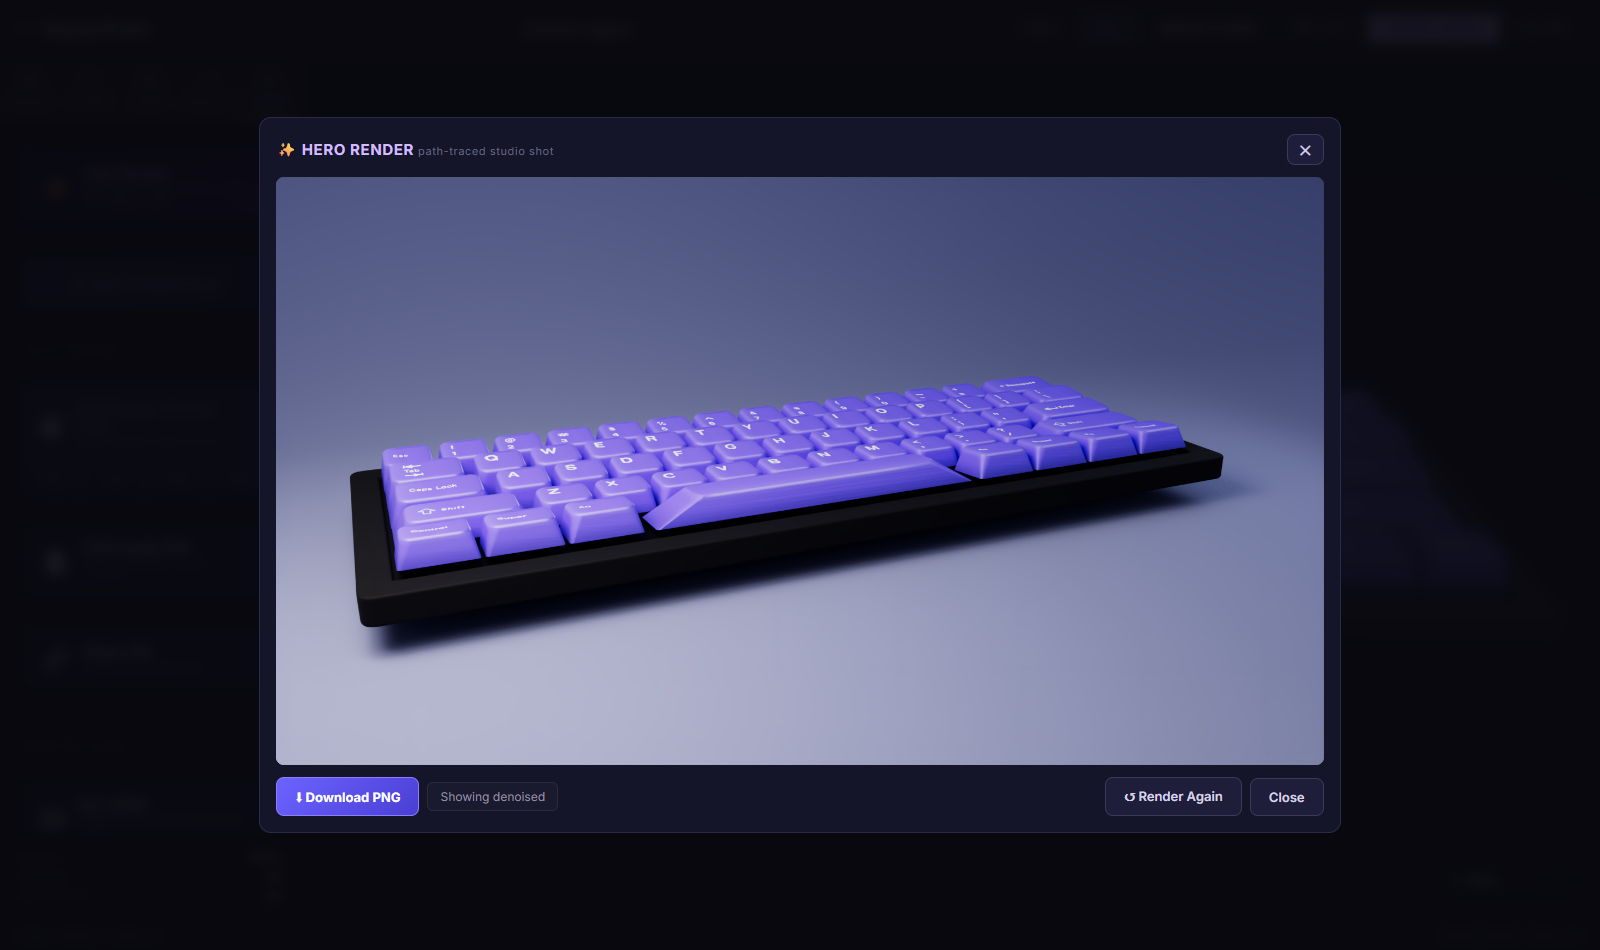
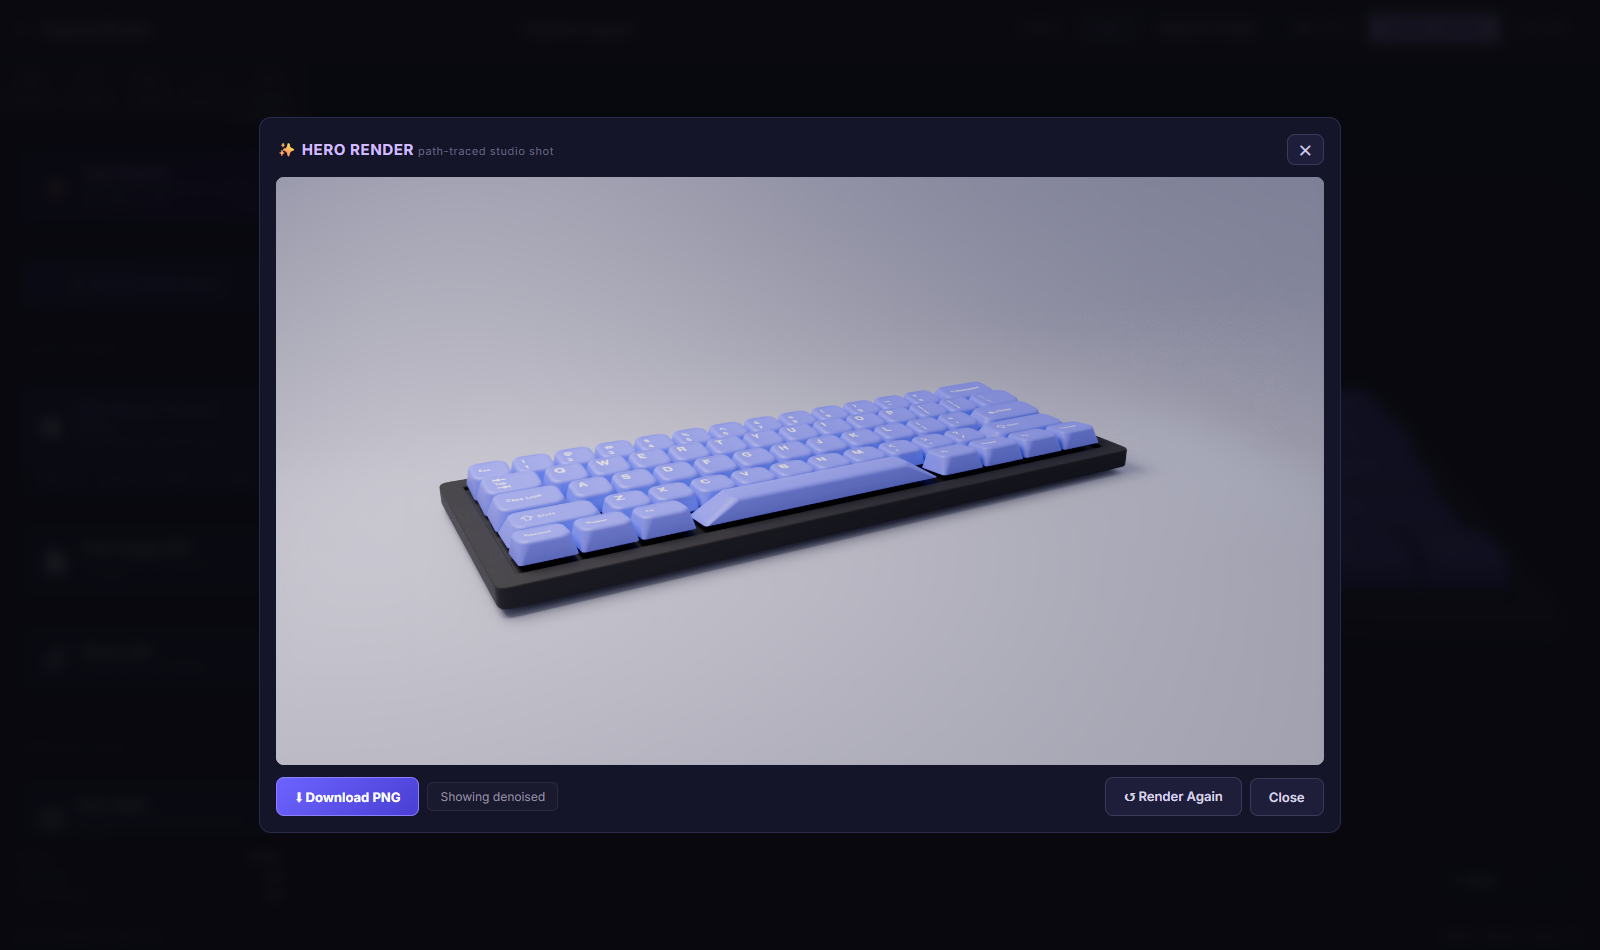
feat: hero render v2 - reference-grade caps, tonal backdrop, AgX
What-are-we-missing pass against the cream macropad reference:

- Cap corners: fillet 1.3->1.8mm, top corner r 2.4->3.2mm, base r
  1.2->1.6mm, more corner/fillet segments - caps read pillowy, not boxy
  (live viewport shares the geometry; lab closeup verified)
- Cap texture under the tracer: hero stage rebuilds top textures WITHOUT
  the painted 2.5D highlight strips (recipe stashed in map.userData by
  Keycap; buildKeycapTextureFallback gains a shaded flag) - real GI was
  double-exposing the baked decals. Side walls drop the painted ramp for
  flat color. PBT roughness 0.93->0.62 satin in hero clones only, so the
  softbox draws true gradients across each cap
- Tonal harmony: backdrop sampled from actual cap canvas colors ->
  desaturated same-hue sweep + gradient (cream caps -> warm greige,
  purple -> lavender grey)
- Grounded: float gap ~0.12, key light high-left-behind for a long soft
  forward shadow; fill 0.8
- Composition: hero fill 0.62 (negative space), aspect options 16:9 /
  1:1 / 4:5, resolution tiers HD/QHD/4K by long edge
- Tone: AgX + exposure 1.15 on the hero renderer (ACES clipped
  saturated colorways); lifted blacks match the reference grade

diff --git a/src/hero/heroStage.js b/src/hero/heroStage.js
@@ -1,5 +1,6 @@
 import * as THREE from 'three';
 import { GradientEquirectTexture, ShapedAreaLight, PhysicalCamera } from 'three-gpu-pathtracer';
+import { buildKeycapTextureFallback, getTopInset } from '../components/Keycap';
 
 // Builds the path-traceable hero scene from the live viewport scene.
 // Staging recipe (matches the reference render): floating board centered
@@ -15,14 +16,50 @@ import { GradientEquirectTexture, ShapedAreaLight, PhysicalCamera } from 'three-
 // tracer snapshots them into its own BVH/atlas on setScene, and texture
 // repeat transforms (molded-grain normal map) carry through per material.
 
-// el kept under the lens half-angle (16.5deg) for hero/front so the
-// backdrop wall fills the top of frame like the reference.
+// fill < 1 leaves negative space around the board — the reference shots
+// are calm product photos, not full-bleed crops.
 export const HERO_PRESETS = {
-  hero: { label: '¾ Hero', az: -0.42, el: 0.34, fill: 0.78, fStop: 4.5 },
-  front: { label: 'Front Low', az: 0, el: 0.2, fill: 0.8, fStop: 5 },
-  top: { label: 'Top Down', az: -0.12, el: 1.22, fill: 0.66, fStop: 8 },
+  hero: { label: '¾ Hero', az: -0.5, el: 0.38, fill: 0.62, fStop: 3.5 },
+  front: { label: 'Front Low', az: 0, el: 0.2, fill: 0.7, fStop: 5 },
+  top: { label: 'Top Down', az: -0.12, el: 1.22, fill: 0.62, fStop: 8 },
   close: { label: 'Close-up', az: -0.55, el: 0.3, fill: 1.6, fStop: 2.2 },
 };
+
+// Average cap-top color, sampled from the live canvas textures (tops are
+// MeshPhysicalMaterial with the key color painted into the map). Drives
+// the tonal-harmony backdrop: same hue family, far less saturated — like
+// cream caps on a warm greige sweep in the reference renders.
+function sampleBoardColor(meshes) {
+  let r = 0, g = 0, b = 0, n = 0;
+  for (const mesh of meshes) {
+    const mat = mesh.material;
+    if (!mat.isMeshPhysicalMaterial) continue; // cap tops only
+    const img = mat.map && mat.map.image;
+    if (img && img.getContext) {
+      try {
+        const px = img.getContext('2d').getImageData(img.width >> 1, img.height >> 1, 1, 1).data;
+        r += px[0]; g += px[1]; b += px[2]; n++;
+        continue;
+      } catch (e) { /* tainted/gl canvas — fall through */ }
+    }
+    if (mat.color) { r += mat.color.r * 255; g += mat.color.g * 255; b += mat.color.b * 255; n++; }
+  }
+  if (!n) return new THREE.Color(0x8d95ba);
+  return new THREE.Color().setRGB(r / n / 255, g / n / 255, b / n / 255, THREE.SRGBColorSpace);
+}
+
+function harmonizedBackdrop(capColor) {
+  const hsl = { h: 0, s: 0, l: 0 };
+  capColor.getHSL(hsl);
+  // near-grey caps keep a hint of warmth instead of going clinical
+  const h = hsl.s < 0.06 ? 0.075 : hsl.h;
+  const s = hsl.s < 0.06 ? 0.06 : Math.min(0.22, hsl.s * 0.3);
+  return {
+    sweep: new THREE.Color().setHSL(h, s, 0.6),
+    gradTop: new THREE.Color().setHSL(h, s * 0.85, 0.8),
+    gradBottom: new THREE.Color().setHSL(h, s, 0.45),
+  };
+}
 
 // Seamless studio cyclorama: flat floor -> quarter-round cove -> vertical
 // back wall, like a real product-photo sweep. The softbox's falloff across
@@ -60,6 +97,45 @@ export function buildHeroScene(sourceScene, { aspect = 16 / 9, angle = 'hero' } 
   const board = new THREE.Group();
   scene.add(board);
 
+  // Hero variants of the cap materials. The live textures bake painted
+  // 2.5D highlights (sculpt ramp + edge shines) that the raster viewport
+  // needs — under the path tracer real light does that work and the baked
+  // strips read as decals. Tops are rebuilt unshaded from the recipe
+  // stashed on each texture; side walls drop the painted ramp for flat
+  // color; PBT roughness comes down to satin so the softbox can draw
+  // gradients across the caps like the reference renders.
+  const ownedTextures = [], ownedMaterials = [];
+  const matCache = new Map(), texCache = new Map();
+  const heroize = (mat) => {
+    if (matCache.has(mat)) return matCache.get(mat);
+    let out = mat;
+    const rebuild = mat.map?.userData?.heroRebuild;
+    const sideColor = mat.map?.userData?.heroSideColor;
+    if (mat.isMeshPhysicalMaterial && rebuild) {
+      out = mat.clone();
+      if (!texCache.has(mat.map)) {
+        const t = buildKeycapTextureFallback(
+          rebuild.color, rebuild.legend, rebuild.legendColor, rebuild.font,
+          rebuild.legendPosition, rebuild.w, rebuild.h,
+          getTopInset(rebuild.profile, rebuild.w, rebuild.h), false
+        );
+        texCache.set(mat.map, t);
+        ownedTextures.push(t);
+      }
+      out.map = texCache.get(mat.map);
+      if (out.roughness > 0.8) out.roughness = 0.62; // PBT: flat -> satin
+      ownedMaterials.push(out);
+    } else if (mat.isMeshStandardMaterial && sideColor) {
+      out = mat.clone();
+      out.map = null;
+      out.color = new THREE.Color(sideColor);
+      if (out.roughness > 0.7) out.roughness = 0.62;
+      ownedMaterials.push(out);
+    }
+    matCache.set(mat, out);
+    return out;
+  };
+
   sourceScene.updateMatrixWorld(true);
   sourceScene.traverse(src => {
     if (!src.isMesh || !src.visible || !src.geometry) return;
@@ -68,7 +144,7 @@ export function buildHeroScene(sourceScene, { aspect = 16 / 9, angle = 'hero' } 
     if (!mat.isMeshStandardMaterial && !mat.isMeshPhysicalMaterial) return;
     if (mat.transparent || mat.side === THREE.BackSide) return;
     for (let o = src.parent; o; o = o.parent) { if (o.visible === false) return; }
-    const mesh = new THREE.Mesh(src.geometry, mat);
+    const mesh = new THREE.Mesh(src.geometry, heroize(mat));
     mesh.matrixAutoUpdate = false;
     mesh.matrix.copy(src.matrixWorld);
     board.add(mesh);
@@ -81,10 +157,15 @@ export function buildHeroScene(sourceScene, { aspect = 16 / 9, angle = 'hero' } 
   const size = bbox.getSize(new THREE.Vector3());
   board.position.set(-center.x, -bbox.min.y, -center.z);
 
-  // Gradient sweep: lights AND backgrounds the shot
+  // Backdrop tones derived from the actual caps — board and world share
+  // a color family like the reference renders
+  const pal = harmonizedBackdrop(sampleBoardColor(board.children));
+
+  // Gradient sweep: lights AND backgrounds the shot (mostly hidden behind
+  // the cyclorama, but it feeds the ambient)
   const grad = new GradientEquirectTexture();
-  grad.topColor.set(0xcdd2e4);
-  grad.bottomColor.set(0x747c9e);
+  grad.topColor.copy(pal.gradTop);
+  grad.bottomColor.copy(pal.gradBottom);
   grad.exponent = 3;
   grad.update();
   scene.environment = grad;
@@ -92,23 +173,26 @@ export function buildHeroScene(sourceScene, { aspect = 16 / 9, angle = 'hero' } 
   scene.environmentIntensity = 0.55;
   scene.backgroundIntensity = 0.85;
 
-  // Softbox key, upper-left (area light + MIS = the reference softbox)
-  const key = new ShapedAreaLight(new THREE.Color(0xfff5ec), 7.5, size.x * 0.7, size.x * 0.5);
-  key.position.set(-size.x * 0.55, size.x * 0.62, size.z * 0.9);
+  // Softbox key: high, left and slightly BEHIND the board so the soft
+  // shadow throws long toward the camera side, grounding the shot
+  const key = new ShapedAreaLight(new THREE.Color(0xfff5ec), 7.5, size.x * 1.0, size.x * 0.75);
+  key.position.set(-size.x * 0.6, size.x * 0.85, -size.z * 0.4);
   key.lookAt(0, 0, 0);
   scene.add(key);
 
   // Cool fill, right, weak — lifts the shadowed walls a touch
-  const fill = new ShapedAreaLight(new THREE.Color(0xdfe8ff), 1.2, size.x * 0.45, size.x * 0.35);
-  fill.position.set(size.x * 0.7, size.x * 0.35, size.z * 0.5);
+  const fill = new ShapedAreaLight(new THREE.Color(0xdfe8ff), 0.8, size.x * 0.45, size.x * 0.35);
+  fill.position.set(size.x * 0.7, size.x * 0.35, size.z * 0.6);
   fill.lookAt(0, 0, 0);
   scene.add(fill);
 
   // Cyclorama sweep behind/below the floating board. (The path tracer's
   // `matte` flag is NOT a shadow catcher in v0.0.24 — it just punches a
   // transparent hole — so the backdrop is real geometry instead.)
-  const floatGap = Math.max(0.35, size.x * 0.035);
-  const sweepMat = new THREE.MeshStandardMaterial({ color: 0x8d95ba, roughness: 0.96, metalness: 0 });
+  // barely floating — the ref boards rest just off the sweep, anchored by
+  // the long soft shadow rather than a gap
+  const floatGap = Math.max(0.12, size.x * 0.012);
+  const sweepMat = new THREE.MeshStandardMaterial({ color: pal.sweep, roughness: 0.96, metalness: 0 });
   const sweep = new THREE.Mesh(
     buildSweepGeometry(size.x * 8, size.x * 2.2, size.x * 0.9, size.x * 1.6),
     sweepMat
@@ -143,7 +227,10 @@ export function buildHeroScene(sourceScene, { aspect = 16 / 9, angle = 'hero' } 
       grad.dispose();
       sweep.geometry.dispose();
       sweepMat.dispose();
-      // board geometries/materials are shared with the live scene — not ours
+      // board geometries + untouched materials are shared with the live
+      // scene; only the hero variants are ours
+      ownedTextures.forEach(t => t.dispose());
+      ownedMaterials.forEach(m => m.dispose());
     },
   };
 }

diff --git a/src/hero/HeroRenderModal.jsx b/src/hero/HeroRenderModal.jsx
@@ -9,15 +9,24 @@ import { buildHeroScene, HERO_PRESETS } from './heroStage';
 // frameloop is paused while this is open (GPU goes to the tracer).
 
 const RESOLUTIONS = [
-  { label: '1080p', w: 1920, h: 1080, tiles: 2 },
-  { label: '1440p', w: 2560, h: 1440, tiles: 3 },
-  { label: '4K', w: 3840, h: 2160, tiles: 4 },
+  { label: 'HD', long: 1920, tiles: 2 },
+  { label: 'QHD', long: 2560, tiles: 3 },
+  { label: '4K', long: 3840, tiles: 4 },
+];
+const ASPECTS = [
+  { label: '16:9', r: 16 / 9 },
+  { label: '1:1', r: 1 },
+  { label: '4:5', r: 4 / 5 },
 ];
 const QUALITIES = [
   { label: 'Fast', samples: 120 },
   { label: 'Balanced', samples: 250 },
   { label: 'High', samples: 500 },
 ];
+// long edge stays at the tier size regardless of orientation
+const dims = (res, aspect) => aspect.r >= 1
+  ? { w: res.long, h: 2 * Math.round(res.long / aspect.r / 2) }
+  : { w: 2 * Math.round(res.long * aspect.r / 2), h: res.long };
 
 const ui = {
   overlay: {
@@ -57,6 +66,7 @@ export default function HeroRenderModal({ onClose }) {
 
   const [phase, setPhase] = useState('config'); // config|prep|render|denoise|done|error
   const [resIdx, setResIdx] = useState(0);
+  const [aspIdx, setAspIdx] = useState(0);
   const [qualIdx, setQualIdx] = useState(1);
   const [angle, setAngle] = useState('hero');
   const [samples, setSamples] = useState(0);
@@ -93,6 +103,8 @@ export default function HeroRenderModal({ onClose }) {
     const s = sessionRef.current;
     const runId = s.runId;
     const res = RESOLUTIONS[resIdx];
+    const { w: renderW, h: renderH } = dims(res, ASPECTS[aspIdx]);
+    s.dims = { w: renderW, h: renderH };
     const target = QUALITIES[qualIdx].samples;
     setSamples(0); setEta(null); setDenoised(false); setShowRaw(false);
     setPhase('prep');
@@ -103,14 +115,16 @@ export default function HeroRenderModal({ onClose }) {
     try {
       const canvas = canvasRef.current;
       const renderer = new THREE.WebGLRenderer({ canvas, antialias: false, preserveDrawingBuffer: true });
-      renderer.toneMapping = THREE.ACESFilmicToneMapping;
-      renderer.toneMappingExposure = 1.0;
+      // AgX: lifted blacks, soft highlight rolloff — the film-like grade of
+      // the reference renders (ACES clipped the saturated colorways)
+      renderer.toneMapping = THREE.AgXToneMapping;
+      renderer.toneMappingExposure = 1.15;
       renderer.outputColorSpace = THREE.SRGBColorSpace;
       renderer.setPixelRatio(1);
-      renderer.setSize(res.w, res.h, false);
+      renderer.setSize(renderW, renderH, false);
       s.renderer = renderer;
 
-      const stage = buildHeroScene(heroBridge.scene, { aspect: res.w / res.h, angle });
+      const stage = buildHeroScene(heroBridge.scene, { aspect: renderW / renderH, angle });
       s.stage = stage;
 
       const pt = new WebGLPathTracer(renderer);
@@ -152,14 +166,14 @@ export default function HeroRenderModal({ onClose }) {
     try {
       const { Denoiser } = await import('denoiser');
       if (runId !== sessionRef.current.runId) return;
-      const res = RESOLUTIONS[resIdx];
       const dn = new Denoiser();
       sessionRef.current.dn = dn;
       // weights ship with the app (public/tzas); lib requires an absolute URL
       dn.weightsUrl = new URL(`${import.meta.env.BASE_URL || '/'}tzas`, window.location.origin).href;
       dn.quality = 'balanced';
       const out = denoiseRef.current;
-      out.width = res.w; out.height = res.h;
+      const { w: outW, h: outH } = sessionRef.current.dims || { w: canvasRef.current.width, h: canvasRef.current.height };
+      out.width = outW; out.height = outH;
       dn.setCanvas(out);
       dn.setInputImage('color', canvasRef.current);
       await dn.execute();
@@ -238,6 +252,10 @@ export default function HeroRenderModal({ onClose }) {
               <span style={ui.label}>Resolution</span>
               {RESOLUTIONS.map((r, i) => (
                 <button key={r.label} style={ui.chip(i === resIdx)} onClick={() => setResIdx(i)}>{r.label}</button>
+              ))}
+              <span style={{ ...ui.label, marginLeft: 12 }}>Aspect</span>
+              {ASPECTS.map((a, i) => (
+                <button key={a.label} style={ui.chip(i === aspIdx)} onClick={() => setAspIdx(i)}>{a.label}</button>
               ))}
               <span style={{ ...ui.label, marginLeft: 12 }}>Quality</span>
               {QUALITIES.map((q, i) => (

diff --git a/src/components/Keycap.jsx b/src/components/Keycap.jsx
@@ -149,7 +149,7 @@ const PROFILE_SPECS = {
 };
 
 const normalizeProfile = (p) => (p || 'cherry').toLowerCase();
-export { PROFILE_SPECS, normalizeProfile };
+export { PROFILE_SPECS, normalizeProfile, buildKeycapTextureFallback, getTopInset };
 
 // ============================================================
 // ROUNDED CAP GEOMETRY (Path B part 2)
@@ -167,11 +167,11 @@ export { PROFILE_SPECS, normalizeProfile };
 // All normals are analytic (wall tilt, fillet arc, dish derivative):
 // no computeVertexNormals, no UV-seam shading splits.
 // ============================================================
-const CAP_FILLET_MM = 1.3;   // top-edge fillet radius
-const CAP_BASE_R_MM = 1.2;   // corner radius at the base
-const CAP_TOP_R_MM = 2.4;    // corner radius at the top plate
-const CAP_CORNER_SEGS = 6;   // outline samples per corner arc
-const CAP_FILLET_SEGS = 5;   // rings along the fillet arc
+const CAP_FILLET_MM = 1.8;   // top-edge fillet radius
+const CAP_BASE_R_MM = 1.6;   // corner radius at the base
+const CAP_TOP_R_MM = 3.2;    // corner radius at the top plate
+const CAP_CORNER_SEGS = 8;   // outline samples per corner arc
+const CAP_FILLET_SEGS = 7;   // rings along the fillet arc
 const CAP_PLATE_T = [0.08, 0.3, 0.6, 0.85]; // plate ring insets (first = old chamfer-strip width)
 const SPACEBAR_CONVEX_MM = 0.6; // front-back bulge of convex (spacebar) tops
 
@@ -721,7 +721,7 @@ function buildKeycapSideTexture(color) {
   return tex;
 }
 
-function buildKeycapTextureFallback(color, legend, legendColor, font, legendPosition, keyWidth = 1, keyHeight = 1, inset = null) {
+function buildKeycapTextureFallback(color, legend, legendColor, font, legendPosition, keyWidth = 1, keyHeight = 1, inset = null, shaded = true) {
   // 256/u: enough for crisp legend glyphs, still cheap to rasterize
   const baseSize = 256;
   const canvasWidth = Math.round(baseSize * keyWidth);
@@ -734,9 +734,13 @@ function buildKeycapTextureFallback(color, legend, legendColor, font, legendPosi
   ctx.fillStyle = color || '#7c6bb0';
   ctx.fillRect(0, 0, canvasWidth, canvasHeight);
 
-  // Spacebar (only unlabeled wide key) is convex; everything else concave
-  const convexTop = (!legend || !legend.trim()) && keyWidth >= 2;
-  paintKeycapShading(ctx, canvasWidth, canvasHeight, baseSize, convexTop);
+  // Spacebar (only unlabeled wide key) is convex; everything else concave.
+  // `shaded=false` skips the painted 2.5D highlights — the hero path
+  // tracer lights the real geometry, and baked strips read as decals there.
+  if (shaded) {
+    const convexTop = (!legend || !legend.trim()) && keyWidth >= 2;
+    paintKeycapShading(ctx, canvasWidth, canvasHeight, baseSize, convexTop);
+  }
 
   if (legend && legend.trim() && legendPosition !== 'hidden' && legendPosition !== 'none' && legendPosition !== 'front') {
     // Rounded geometry: the canvas spans fillet + plate; draw the legend
@@ -920,15 +924,21 @@ function Keycap({ keyId, label, x, y, w = 1, h = 1, rowHeight, rowTilt, uvOffset
   const textureKey = `${color}-${displayText}-${legendColor}-${legendPosition}-${font}-${legendFontV}-${w}-${h}-${profile}`;
   const solidTexture = useMemo(() => {
     if (imageMode === 'wrap') return null;
-    return getCachedTexture(textureKey, () =>
+    const tex = getCachedTexture(textureKey, () =>
       buildKeycapTextureFallback(color, displayText, legendColor, font, legendPosition, w, h, getTopInset(profile, w, h))
     );
+    // hero render rebuilds this texture unshaded (real GI replaces the
+    // painted highlights) — stash the recipe on the shared texture
+    tex.userData.heroRebuild = { color, legend: displayText, legendColor, font, legendPosition, w, h, profile };
+    return tex;
   }, [color, displayText, legendColor, font, legendPosition, imageMode, w, h, profile, textureKey]);
 
   // Painted side-wall texture — per-key solid path only (wrap mode drapes the image)
   const sideTexture = useMemo(() => {
     if (imageMode === 'wrap') return null;
-    return getCachedTexture(`side-${color}`, () => buildKeycapSideTexture(color));
+    const tex = getCachedTexture(`side-${color}`, () => buildKeycapSideTexture(color));
+    tex.userData.heroSideColor = color;
+    return tex;
   }, [color, imageMode]);
 
   // Per-key image
